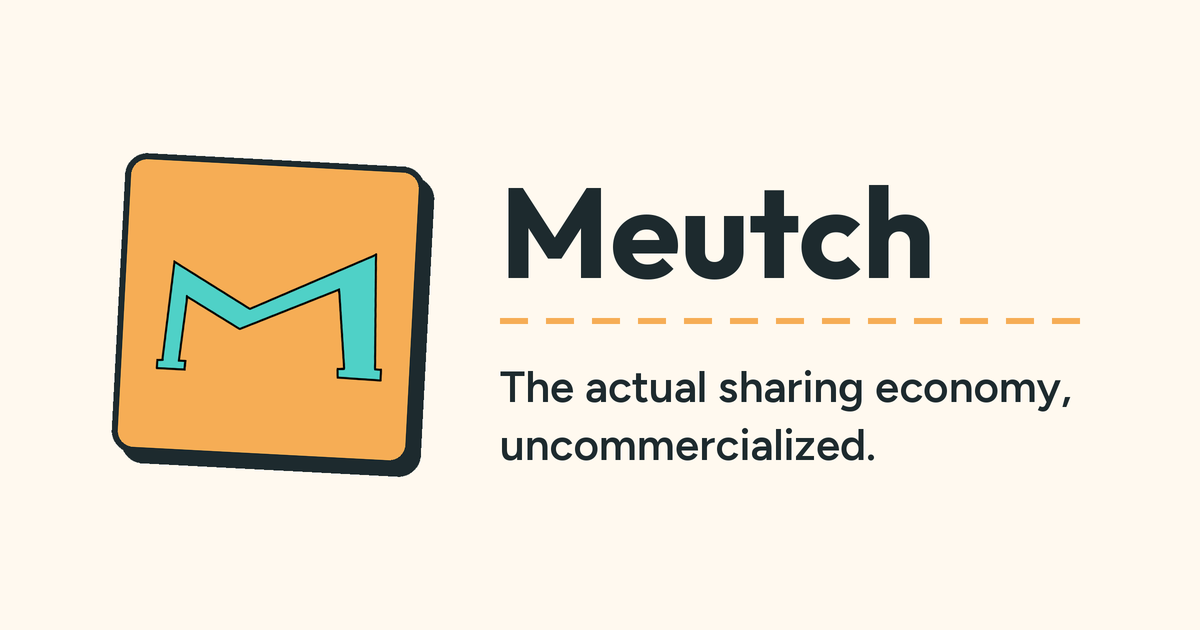
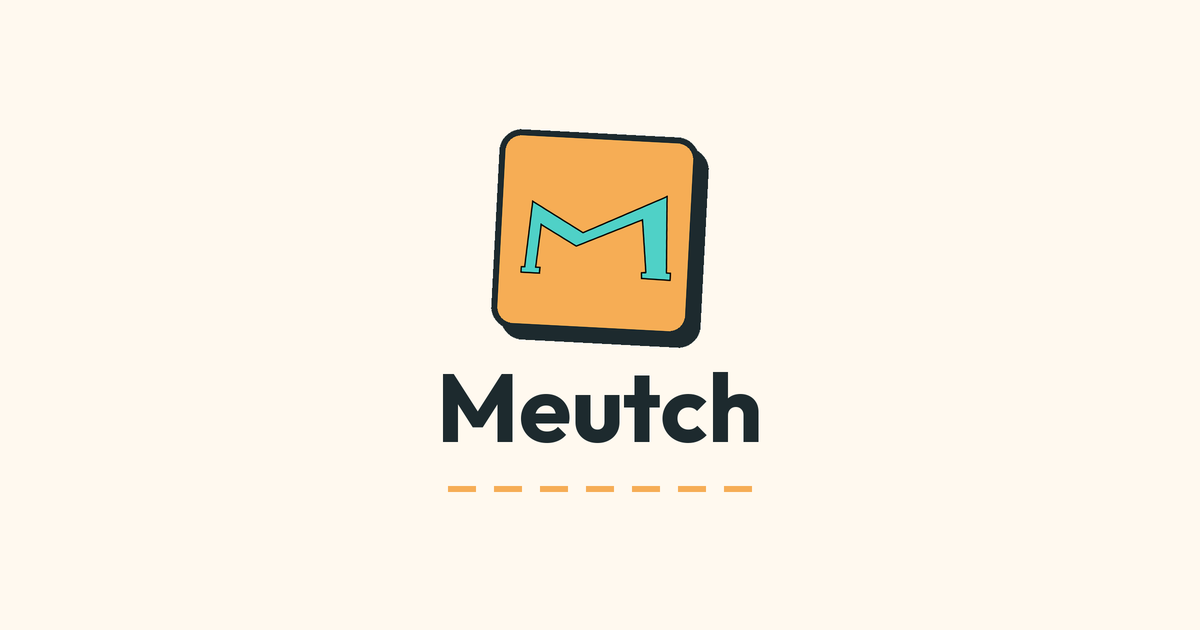
Center the preview image so Slack and iMessage don't crop it
Slack shows the preview as a small thumbnail cropped to the center square,
which cut through the logo tile and wordmark. iMessage on iOS trims the top
and bottom. The tile, wordmark and stitch now sit in a small central block
with paper on every side.

Drop the tagline from the image, since apps already show it as the card's
title, and shorten the alt text to match.

Changed region(s): [[0.0925, 0.181, 0.8942, 0.7841]]

diff --git a/app/templates/base.html b/app/templates/base.html
@@ -65,8 +65,8 @@
     {% block og_image_details %}
     <meta property="og:image:width" content="1200">
     <meta property="og:image:height" content="630">
-    <meta property="og:image:alt" content="The Meutch logo: The actual sharing economy, uncommercialized.">
-    <meta name="twitter:image:alt" content="The Meutch logo: The actual sharing economy, uncommercialized.">
+    <meta property="og:image:alt" content="The Meutch logo">
+    <meta name="twitter:image:alt" content="The Meutch logo">
     {% endblock %}
 
     <!-- Twitter -->

diff --git a/scripts/make_og_image.py b/scripts/make_og_image.py
@@ -55,20 +55,21 @@ def main():
     img = Image.new("RGB", (W * S, H * S), PAPER)
     d = ImageDraw.Draw(img)
 
-    tile = logo_tile(300 * S)
-    img.paste(tile, (110 * S, (H * S - tile.height) // 2), tile)
+    # Keep everything in a small central block: Slack crops the image to the
+    # centre square, and iMessage on iOS trims the top and bottom.
+    tile = logo_tile(200 * S)
+    img.paste(tile, ((W * S - tile.width) // 2, 128 * S), tile)
 
-    x = 500 * S
-    d.text((x, 150 * S), "Meutch", font=font("outfit", 128, 700), fill=INK)
+    # The tagline is left out because apps show it as the card's title.
+    wordmark = font("outfit", 96, 700)
+    d.text((W * S // 2, 372 * S), "Meutch", font=wordmark, fill=INK, anchor="mt")
 
     # Running stitch: 14px on, 9px off, 3px tall on the site; doubled here.
-    y = 318 * S
-    for sx in range(x, x + 560 * S, 46 * S):
+    y, n = 486 * S, 7
+    x0 = (W * S - (n * 46 - 18) * S) // 2
+    for i in range(n):
+        sx = x0 + i * 46 * S
         d.rectangle((sx, y, sx + 28 * S - 1, y + 6 * S - 1), fill=TANGERINE)
-
-    tagline = font("figtree", 44, 600)
-    d.text((x, 360 * S), "The actual sharing economy,", font=tagline, fill=INK)
-    d.text((x, 418 * S), "uncommercialized.", font=tagline, fill=INK)
 
     # Plain sRGB PNG with no gamma/chromaticity/metadata chunks.
     img.resize((W, H), Image.LANCZOS).save(OUT, optimize=True)

diff --git a/STYLE_GUIDE.md b/STYLE_GUIDE.md
@@ -166,6 +166,9 @@ Leave it out of nav links, footer links and buttons whose label is already clear
 Pages without a photo of their own use `app/static/img/og_default.png` as the
 preview image for links shared in messages and chat apps. Its edges are `--paper`,
 because apps tint the space around a preview with a color taken from the image.
+Keep its content small and centered: Slack crops it to the center square and
+iMessage trims the top and bottom. Leave out the tagline, since apps already show
+it as the card's title.
 Rebuild it with `python scripts/make_og_image.py` instead of editing it by hand.
 
 ## Building pages
